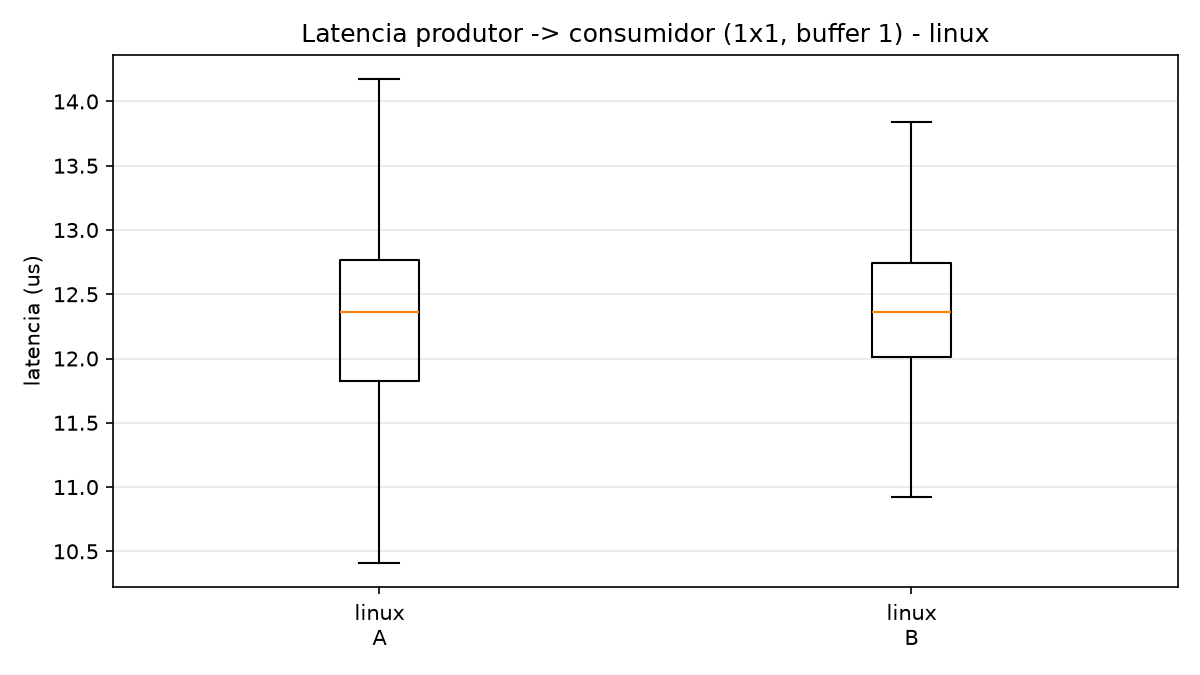
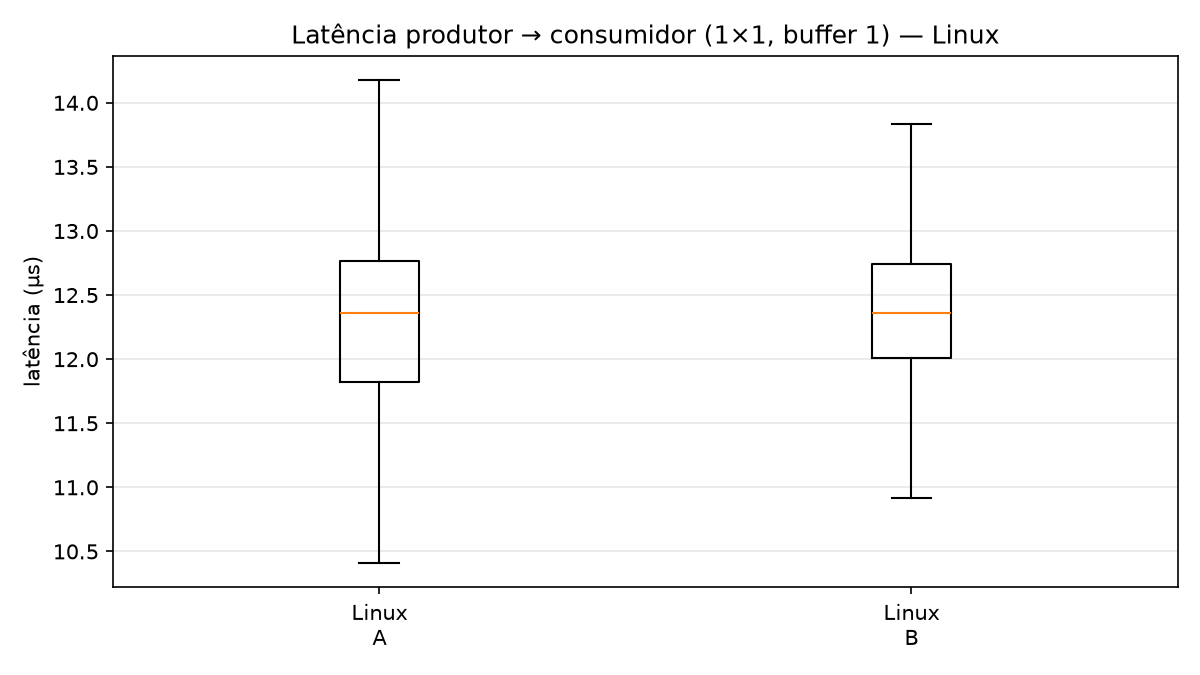
Rotulos dos graficos com acento

diff --git a/experimentos/analisar.py b/experimentos/analisar.py
@@ -23,6 +23,7 @@ RAIZ = Path(__file__).resolve().parent.parent
 DADOS = RAIZ / "dados"
 SAIDA = RAIZ / "experimentos"
 GRAF = SAIDA / "graficos"
+NOME = {"linux": "Linux", "windows": "Windows"}
 CHAVE = ["so", "versao", "produtores", "consumidores", "buffer"]
 
 
@@ -62,18 +63,18 @@ def grafico_vazao(r):
         for ax, ((p, c), d_pc) in zip(axes[0], grupos):
             for versao, d in d_pc.groupby("versao"):
                 d = d.sort_values("buffer")
-                rot = "A (var. condicao)" if versao == "A" else "B (semaforo)"
+                rot = "A (var. condição)" if versao == "A" else "B (semáforo)"
                 ax.errorbar(d["buffer"], d["media"], yerr=d["desvio"],
                             marker="o", capsize=4, label=rot)
             ax.set_xscale("log", base=2)
             ax.set_xticks([1, 16, 256])
             ax.set_xticklabels(["1", "16", "256"])
             ax.set_xlabel("tamanho do buffer")
-            ax.set_ylabel("vazao (itens/s)")
-            ax.set_title(f"{p} produtor(es) x {c} consumidor(es)")
+            ax.set_ylabel("vazão (itens/s)")
+            ax.set_title(f"{p} produtor(es) × {c} consumidor(es)")
             ax.grid(alpha=0.3)
             ax.legend()
-        fig.suptitle(f"Vazao x tamanho do buffer - {so}")
+        fig.suptitle(f"Vazão × tamanho do buffer — {NOME.get(so, so)}")
         fig.tight_layout()
         fig.savefig(GRAF / f"vazao_{so}.png", dpi=150)
         plt.close(fig)
@@ -83,12 +84,12 @@ def boxplot_latencia(lat, titulo, arquivo):
     grupos, rotulos = [], []
     for (so, versao), d in lat.groupby(["so", "versao"]):
         grupos.append(d["latencia_ns"] / 1000.0)
-        rotulos.append(f"{so}\n{versao}")
+        rotulos.append(f"{NOME.get(so, so)}\n{versao}")
     fig, ax = plt.subplots(figsize=(4 + 2 * len(grupos), 4.5))
     ax.boxplot(grupos, showfliers=False)
     ax.set_xticks(range(1, len(rotulos) + 1))
     ax.set_xticklabels(rotulos)
-    ax.set_ylabel("latencia (us)")
+    ax.set_ylabel("latência (µs)")
     ax.set_title(titulo)
     ax.grid(axis="y", alpha=0.3)
     fig.tight_layout()
@@ -98,7 +99,7 @@ def boxplot_latencia(lat, titulo, arquivo):
 
 def grafico_latencia(lat):
     for so, d in lat.groupby("so"):
-        boxplot_latencia(d, f"Latencia produtor -> consumidor (1x1, buffer 1) - {so}",
+        boxplot_latencia(d, f"Latência produtor → consumidor (1×1, buffer 1) — {NOME.get(so, so)}",
                          f"latencia_{so}.png")
         q = d.groupby("versao")["latencia_ns"].describe(percentiles=[0.5, 0.9, 0.99])
         q.to_csv(SAIDA / f"resumo_latencia_{so}.csv", float_format="%.1f")
@@ -106,7 +107,7 @@ def grafico_latencia(lat):
     # comparacao lado a lado so quando ha dados de mais de um SO,
     # para nunca ser regravada com um SO so
     if lat["so"].nunique() > 1:
-        boxplot_latencia(lat, "Latencia produtor -> consumidor (1x1, buffer 1)",
+        boxplot_latencia(lat, "Latência produtor → consumidor (1×1, buffer 1)",
                          "latencia_comparacao.png")
 
 
